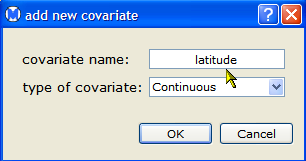
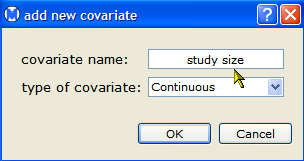
Updated doc.

diff --git a/doc/covariate.html b/doc/covariate.html
@@ -1,18 +1,36 @@
 <link href="css/help.css" 
 type=text/css rel=stylesheet>
 <h2><a name="top">Adding a covariate</a></h2> 
-<p>To add a covariate to your data set, 
+<p>Covariates are additional variables related to the primary data in your data set. In Open Meta-Analyst, covariates are used for both meta-regression and subgroup analyis. A covariate can be of the following types:</p>
+<ul>
+  <li>Continuous - The values are numbers
+  <li>Factor - The values are names, describing a subset or category of the studies in the data set
+</ul>
+<p>
+
+<p>The following example shows how to add a factor covariate to the data described in <a href="example.html#top">Opening an Existing Data Set</a>. 
+The covariate corresponds to the size of the treatment groups in the studies,To add the covariate to the data set, 
   <ol>
      <li>Select <b>add covariate</b> from the <b>Dataset</b> menu.</li>
      <li>In the <b>add a new covariate</b> dialog, type a name for the covariate in the covariate name field, as
      shown below.
-     <p><img src="images/add_covariate.png"></img></p></li><br> 
-     <li>Select the type of covariate: <b>Continuous</b> or <b>Factor</b>. In this example, the covariate is continuous.</li>
+     <p><img src="images/add_covariate.png"></img></p></li>
+     <li>Select the type of covariate. In this example, the type is <b>Factor</b></li>
+    <p><img src="images/covariate_type.png"></img></p> </li>
      <li>Click <b>OK</b>.</li>
    </ol>
-<p>The Open Meta-Analysis window now displays a new column for the covariate. You can enter data for
-the covariate by double-clicking in the column and typing values. The picture below shows the window with added data 
-for the covariate.</p>
+<p>The Open Meta-Analysis window now displays a new column for the covariate. </p>
 <p><img 
   src="images/covariate_column.png"></img></p>
+<p>You can enter data for
+the covariate by double-clicking in the column and typing values. Enter the values "small," "medium", or "large," according to the numbers of individuals in the treatment group (tx AN):</p>
+<ul>
+  <li>small - 0 to 29 individuals </li>
+  <li>medium - 30 to 89 individuals</li> 
+  <li>large - 90 or more individulas</li>
+</ul>
+
+The picture below shows the data table with the added covariate.</p>
+<p><img 
+  src="images/covariate_column_data_entered.png"></img></p>
   <table id="nav" cellspacing="0"><tr valign="center"><td align="left" width="20"><a href="select_metric.html#top"><img src="images/b_prev.gif" border="0"></td><td align="left">Changing the Metric</td></a><td>&nbsp;</td><td align="right">Performing a Meta-Regression</td><td align="right" width="20"><a href="regression.html#top"><img src="images/b_next.gif" border="0"></a></td></tr></table>

diff --git a/doc/analysis_metrics.html b/doc/analysis_metrics.html
@@ -2,12 +2,55 @@
 type=text/css rel=stylesheet>
 <h2><a name="top">Analysis Metrics</a></h2>
   <p>This section describes the metrics available in Open Meta-Analyst.</p>
-  <h3>Binary Metrics</h3>
-    <ul>
-    <li>Odds Ratio</li>
-    <li>Ma
+  <h3>Metrics for Binary Data</h3>
+  <p>You can choose a metric for binary or continuous data by selecting <b>metric</b> from the <b>analysis</b> menu,
+         as described in <a href="analysis.html#top">Example - Performing a Meta-Analysis</a>.</b>
+  <ul>
+     <li>Two-Arm Metrics:
+        <ul>
+          <li><b>OR</b> - Odds Ratio</li>
+         <li><b>RD</b> - Risk Difference</li>
+         <li><b>RR</b> - Risk Ratio</li>
+         <li><b>AS</b> - Arcsine</li>
+         <li><b>PETO</b> - Peto</li>
+         <li><b>YUQ</b> - Yule's Q</li>
+         <li><b>YUY</b> - Yule's Y</li>
+       </ul> 
+     </li>
+     <li>One-Arm Metrics:
+        <ul>
+          <li><b>PR</b> - Proportion</li>
+         <li><b>PLN</b> - Log-transformed proportion</li>
+         <li><b>PLO</b> - Logit-transformed proportion</li>
+         <li><b>PAS</b> - Arcsine-transformed proportion</li>
+         <li><b>PFT</b> - Freeman-Tukey double arcsine-transformed proportion</li>
+       </ul> 
+     </li>
+     </ul>
    
-  	<h3>Continuous Methods</h3>
+  	<h3>Metrics for Continuous Data</h3>
+  	  <li>Two-Arm Metrics:
+        <ul>
+          <li><b>MD</b> - Mean Difference</li>
+         <li><b>SMD</b> - Standardized Mean Difference</li>
+       </ul> 
+     </li>
+      <li>One-Arm Metrics:
+        <ul>
+          <li><b>TX Mean</b> - Treatment Mean</li>
+        </ul> 
+     </li>
   	
-  	<h3>Diagnostic Methods</h3>
+  	<h3>Metrics for Diagnostic Data</h3>
+  	<ul>
+  	   <li><b>sensitivity</b> - TP / (TP + FN)</li>
+  	   <li><b>specificity</b> - TN / (TN + FP)</li>
+  	   <li><b>likelihood ratio</b>
+  	       <ul>
+  	           <li>Positive likelihood ratio - sensitivity / (1 - specificity)</li>
+  	           <li>Negative likelihood ratio - (1 - sensitivity) / specificity</li>
+  	       </ul>
+  	    </li>
+  	    <li><b>diagnostic odds ratio</b> - (TP + TN) / (FP + FN)</li>
+   </ul>
   

diff --git a/doc/analysis.html b/doc/analysis.html
@@ -3,7 +3,7 @@ type=text/css rel=stylesheet>
  <h2><a name="top">Example - Performing a Meta-Analysis</a></h2>
   <p>This section provides an example that illustrates how to perform a meta-analysis. 
   To run the analysis, first open the sample data set amino.oma, described in <a href="example.html#top">Opening an Existing Data Set</a>.
-  Then do the following steps:</p>
+  Then do the following:</p>
   <ol>
     <li>Select the studies you want to include in the analysis, using the check boxes in the "include" column. In this example,
         all studies are selected.</li>
@@ -11,16 +11,16 @@ type=text/css rel=stylesheet>
          and select <b>metric > two-arm</b>.</li>
     <li>Select a metric for the analysis, such as <b>RR</b> (risk ratio), as shown below.
          <p><img src="images/analysis_menu.png"></p>
-        <p>See <a href="metric_options.html#top">Metric Options</a> for a complete description of the available metrics.</p> </li>
-    <li>To perform a basic analysis,
-        select <b>meta-analysis</b> on the <b>Analysis</b> menu.
+        <p>See <a href="analysis_metrics.html#top">Metric Options</a> for a complete description of the available metrics.</p> </li>
+    <li>In the <b>Analysis</b> menu,
+        select <b>meta-analysis</b> .
        This opens the Methods &amp; Parameters dialog, as shown 
-     below.</li>
-    <p><img src="images/analysis_parameters_dialog.png"></p><li>
+     below.
+    <p><img src="images/analysis_parameters_dialog.png"></p></li>
     <li>Click the analysis method field and select a method for the analysis, such as <b>Binary Fixed-effect Mantel Haensael</b>.
    <p><img src="images/select_method.png"></p>
   <p>See
-  <a href="analysis_options.html#top">Analysis Options</a> for a complete description of the available methods and options shown in the dialog.</p></li>
+  <a href="analysis_methods.html#top">Analysis Options</a> for a complete description of the available methods.</p></li>
    <li>Click <b>OK</b> to 
   perform the analysis. </li>
   </ol>

diff --git a/doc/analysis_options.html b/doc/analysis_options.html
@@ -2,19 +2,21 @@
 type=text/css rel=stylesheet>
 <h2><Meta-Analysis Options</a></h2>
   <p>The following analysis options are available in the Methods & Parameters dialog.</p>
-  <h3>Common Options</h2>
+   <p><img src="images/analysis_parameters_dialog.png"></p>
   <ul>
-  		<li>conf.level - The confidence level for the estimate.</li><br>
-  		<li>digits - The number of digits after the decimal point to be displayed in results.</li>
-  	</ul>
-  	<h3>Fixed-Effect Models</h3>
-  	<ul>
-  		<li>adjust - Number added to the data for tx An, tx AN, tx Bn, and tx BN, according to the
-  		the value of the <b>to</b> parameter.</li><br>
-  		<li>to - Can take one of the following values:<br>
+      <li>analysis method - The method for the meta-analysis</li>
+      <li>Random method (
+  		<li>Confidence level - The confidence level for the estimate</li>
+  		<li>Number of digits - The number of digits after the decimal point to be displayed in results.</li>
+  </ul>
+  <h3>Binary and Continuous Data Only</h3>
+  <ul>
+  		<li>Correction factor - Number added to the data when there are studies that have zero counts. The correction is added according to the
+  		the value of the <b>Add correction factor to</b> parameter.</li><br>
+  		<li>Add correction factor to - Can take one of the following values:<br>
   				<ul>
-  						<li>only0 - The value of adjust is only added to the data when at least one of tx An, tx AN, tx Bn, and tx BN equals 0 or NA.</li><br>
-  						<li>all - The value of adjust is always add to the data.</li>
+  						<li>only0 - The correction factor is only added to the data for studies that have zero counts.</li><br>
+  						<li>all - When at least one study has a zero count, the correction factor is added to the data for all studies.</li>
   				</ul>
   	</ul>
   	<h3>Random-Effect Models</h3>

diff --git a/doc/data_table.html b/doc/data_table.html
@@ -1,0 +1,13 @@
+<link href="css/help.css" 
+type=text/css rel=stylesheet>
+ <h2><a name="top">Using the Data Table</a></h2>
+ <p>This section describes some of the features of the Open Meta-Analyst data table.</p>
+ <h3>Sorting Data by Study Name or Year</h3>
+ <p>To sort your data alphabetically by study name, click <b>study name</b>.<p> 
+ <p> <p><img src="images/sort_by_study_name.png"></p>
+ <p> To put the data back in its original order, select <b>undo</b> from the <b>Edit</b> menu. Similarly, you can sort your data chronologically by clicking <b>year.</b></p>
+ <p><b>Note:</b> After you sort data, when you close Open Meta-Analyst, you are prompted to save your changes. If you want to keep your data in its original (unsorted) order, click <b>Discard</b>
+ in the dialog, as shown below.</p>
+ <p><img src="images/unsaved_changes_dialog.png"></p>
+ <p>If you want to save the sorted data in the new order, click <b>Save</b>.</p>
+  <table id="nav" cellspacing="0"><tr valign="center"><td align="left" width="20"><a href="entering_data.html#top"><img src="images/b_prev.gif" border="0"></td><td align="left">Entering and Saving Data</td></a><td>&nbsp;</td><td align="right">Example: Performing a Meta-Analysis</td><td align="right" width="20"><a href="analysis.html#top"><img src="images/b_next.gif" border="0"></a></td></tr></table>

diff --git a/doc/example.html b/doc/example.html
@@ -9,4 +9,5 @@ type=text/css rel=stylesheet>
  </ol>
  <p>Open Meta-Analyst displays the data shown below.</p>
  <p><img src="images/amino.png"></p>
+ <p>Source: Barza, M., Ioannidis, J., Cappelleri, J., Lau, J.  "Single or multiple daily doses of aminoglycosides: a meta-analysis." BMJ, Vol. 312, 1966. </p>
   <table id="nav" cellspacing="0"><tr valign="center"><td align="left" width="20"><a href="entering_data.html#top"><img src="images/b_prev.gif" border="0"></td><td align="left">Entering and Saving Data</td></a><td>&nbsp;</td><td align="right">Example: Performing a Meta-Analysis</td><td align="right" width="20"><a href="analysis.html#top"><img src="images/b_next.gif" border="0"></a></td></tr></table>

diff --git a/doc/openMA_help.html b/doc/openMA_help.html
@@ -47,7 +47,8 @@ function calcHeight()
       <li><a href="#self" onclick="frames['IFrameName'].location.href='entering_data.html'">Entering and Saving Data</a>
       <li><a href="#self" onclick="frames['IFrameName'].location.href='example.html'">Opening an Existing Data Set</a>
        <li><a href="#self" onclick="frames['IFrameName'].location.href='analysis.html'">Example - Performing a Meta-Analysis</a></li>
-   </ul>
+       <li><a href="#self" onclick="frames['IFrameName'].location.href='data_table.html'">Using the Data Table</a></li>
+     </ul>
 </div>
 <h3><a href="#">User's Guide</a></h3>
 <div>

diff --git a/doc/analysis_methods.html b/doc/analysis_methods.html
@@ -4,10 +4,17 @@ type=text/css rel=stylesheet>
   <p>This section describes the analysis methods available in Open Meta-Analyst.</p>
   <h3>Binary Methods</h3>
     <ul>
-    <li>Fixed-effect inverse variance</li>
-    <li>Ma
+      <li>Fixed-effect inverse variance</li>
+      <li>Fixed-effect Peto</li>
+      <li>Mantel-Haenszel</li>
+      <li>Random-effects</li>
+   </ul>
    
   	<h3>Continuous Methods</h3>
   	
   	<h3>Diagnostic Methods</h3>
+  	  <ul>
+      <li>Fixed-effect inverse variance</li>
+      <li>Random-effects</li>
+   </ul>
   

diff --git a/doc/example_binary.html b/doc/example_binary.html
@@ -1,0 +1,5 @@
+<link href="css/help.css" 
+type=text/css rel=stylesheet>
+ <h2><a name="top">Meta-Analysis of Binary Data</a></h2>
+<h3>Under Contruction</h3>
+  <table id="nav" cellspacing="0"><tr valign="center"><td align="left" width="20"><a href="entering_data.html#top"><img src="images/b_prev.gif" border="0"></td><td align="left">Entering Data</td></a><td>&nbsp;</td><td align="right">Running the Analysis</td><td align="right" width="20"><a href="analysis.html#top"><img src="images/b_next.gif" border="0"></a></td></tr></table>
